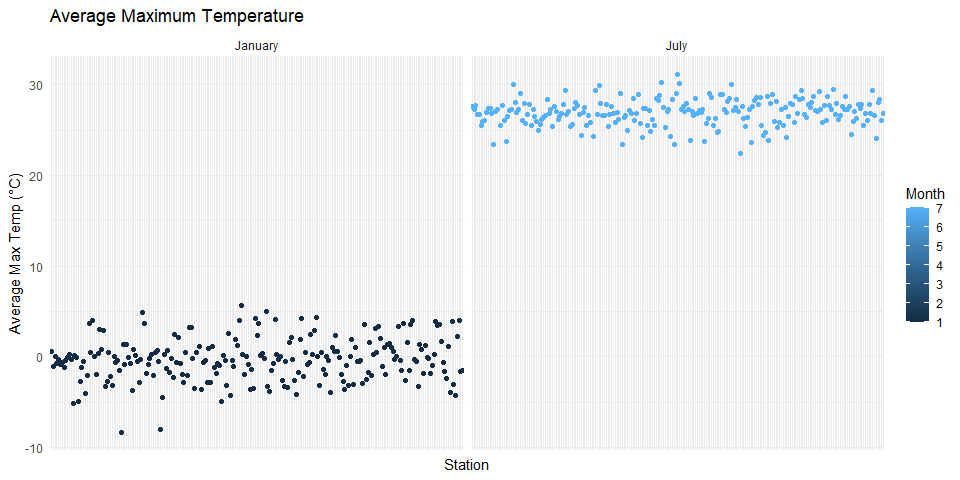
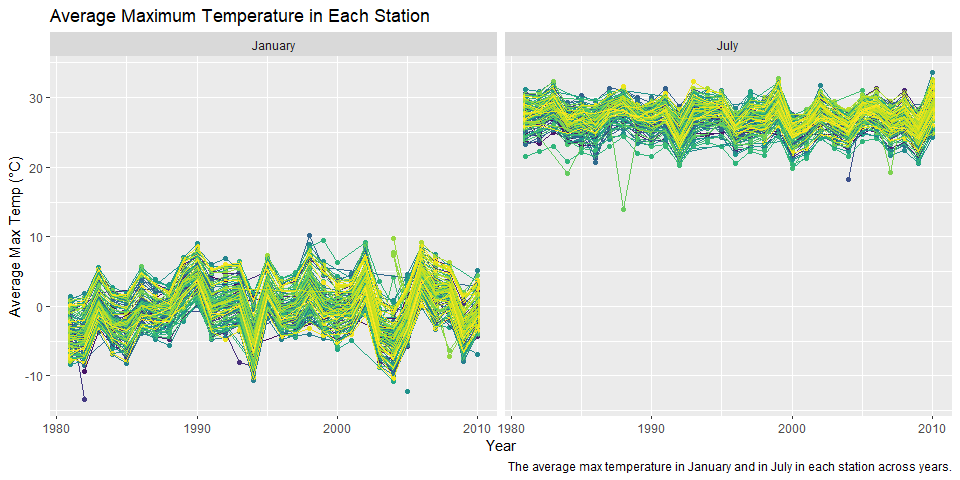
corrections for problem 1

diff --git a/p8105_hw3_jz3902.md b/p8105_hw3_jz3902.md
@@ -99,63 +99,64 @@ month.labs = c("January", "July")
 names(month.labs) = c(1, 7)
 
 ny_noaa_clean %>% 
-  filter(month == c(1, 7)) %>%
-  group_by(id, month) %>% 
+  filter(month %in% c(1, 7)) %>%
+  group_by(id, year, month) %>% 
   summarize(avg_tmax = mean(tmax, na.rm = TRUE)) %>% 
   drop_na(avg_tmax) %>% 
-  ggplot(aes(x = id, y = avg_tmax, color = month)) +
+  ggplot(aes(x = year, y = avg_tmax, color = id)) +
   geom_point() +
+  geom_line() +
   facet_grid(. ~ month, 
              labeller = labeller(month = month.labs)) +
   labs(
-    title = "Average Maximum Temperature",
-    x = "Station",
+    title = "Average Maximum Temperature in Each Station",
+    x = "Year",
     y = "Average Max Temp (°C)",
-    color = "Month") +
-  theme_minimal() +
-  theme(axis.text.x = element_blank())
+    caption = "The average max temperature in January and in July in each station across years.") +
+  viridis::scale_color_viridis(discrete = TRUE,
+                               option = "viridis") +
+  theme(legend.position = "none")
 ```
 
 ![](p8105_hw3_jz3902_files/figure-gfm/avg_tmax-1.png)<!-- -->
 
-- The average maximum temperature in January fluctuates around 0 degrees
-  C; the average maximum temperature in July is mostly between 25-30
-  degrees C.
+- Most of the time, the average maximum temperatures at different
+  stations have similar trends: they rise or fall at the same time.
 
-- There are some outliers in January. To find out which stations they
-  are:
+- According to the graph, outliers occurred in July between 1985-1990.
+  To find out which years they are:
 
 ``` r
 ny_noaa_clean %>% 
-  filter(month == c(1)) %>%
-  group_by(id, month) %>% 
+  filter(month == 7) %>%
+  group_by(id, year, month) %>% 
   summarize(avg_tmax = mean(tmax, na.rm = TRUE)) %>% 
   drop_na(avg_tmax) %>% 
   arrange(avg_tmax) %>% 
   head()
 ```
 
-    ## `summarise()` has grouped output by 'id'. You can override using the `.groups`
-    ## argument.
+    ## `summarise()` has grouped output by 'id', 'year'. You can override using the
+    ## `.groups` argument.
 
-    ## # A tibble: 6 × 3
-    ## # Groups:   id [6]
-    ##   id          month avg_tmax
-    ##   <chr>       <dbl>    <dbl>
-    ## 1 USC00305925     1   -12.2 
-    ## 2 USC00301723     1    -9.98
-    ## 3 USC00302720     1    -8.02
-    ## 4 USC00300505     1    -5.39
-    ## 5 USC00300424     1    -5.22
-    ## 6 USC00304836     1    -4.89
+    ## # A tibble: 6 × 4
+    ## # Groups:   id, year [6]
+    ##   id           year month avg_tmax
+    ##   <chr>       <dbl> <dbl>    <dbl>
+    ## 1 USC00308962  1988     7     14.0
+    ## 2 USC00302454  2004     7     18.3
+    ## 3 USC00308946  1984     7     19.1
+    ## 4 USC00309389  2007     7     19.2
+    ## 5 USC00306957  2000     7     19.8
+    ## 6 USC00308248  2000     7     19.9
 
-- Station USC00305925, USC00301723 and USC00302720 have extreme low
-  average temperatures in January.
+- Station USC00308962 have extreme low average temperatures (14.0
+  degrees C) in January, 1988.
 
 ### tmax vs tmin + snowfall
 
 ``` r
-ggp_tmax_tmin = 
+hex_tmax_tmin = 
   ny_noaa_clean %>% 
   drop_na(tmin, tmax) %>% 
   ggplot(aes(x = tmin, y = tmax)) +
@@ -168,7 +169,7 @@ ggp_tmax_tmin =
         legend.text = element_text(size = 8, angle = 45))
   
 
-ggp_snowfall = 
+box_snowfall = 
   ny_noaa_clean %>% 
   select(year, snow) %>% 
   filter(snow > 0 & snow < 100) %>% 
@@ -181,7 +182,7 @@ ggp_snowfall =
                                    angle = 45, 
                                    hjust = 1))
 
-ggp_tmax_tmin + ggp_snowfall
+hex_tmax_tmin + box_snowfall
 ```
 
 ![](p8105_hw3_jz3902_files/figure-gfm/tmax_tmin_snowfall-1.png)<!-- -->
